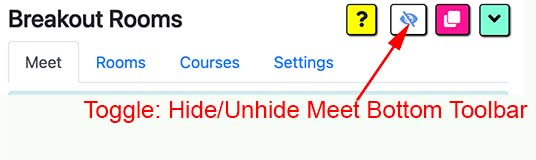
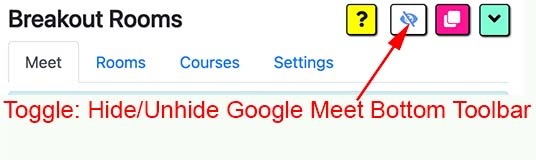
3

Changed region(s): [[0.0, 0.625, 1.0, 0.7812]]

diff --git a/gmbr-help.MD b/gmbr-help.MD
@@ -25,7 +25,7 @@
 
 ### Utilities
 
-- [Hide / Unhide Google Meet Toolbar](#toggle-hide-unhide-meet-toolbar)
+- [Hide / Unhide Google Meet Toolbar](#toggle-hide-unhide-google-meet-toolbar)
 - [Re-tile](#re-tile)
 - [Minimize/Maximize control panel](#minimizemaximize-control-panel)
 - [Reports](#reports)
@@ -228,7 +228,7 @@
 
   ![mute](./data/mute.jpg)
 
-### Toggle Hide Unhide Meet Toolbar
+### Toggle Hide Unhide Google Meet Toolbar
 
 - Sometimes the "real estate" space on your screen is too small, so you can toggle the google meet toolbar to hide or unhide, freeing up space
 
